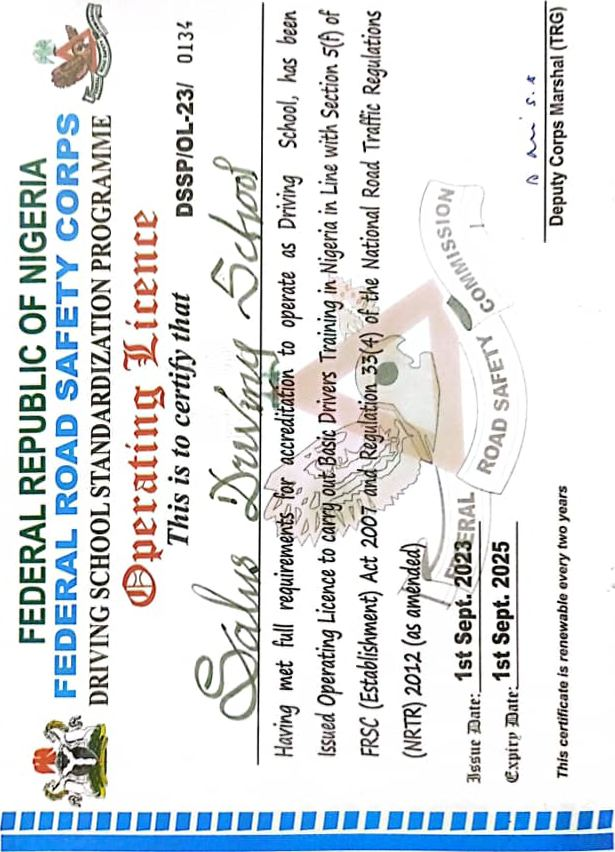
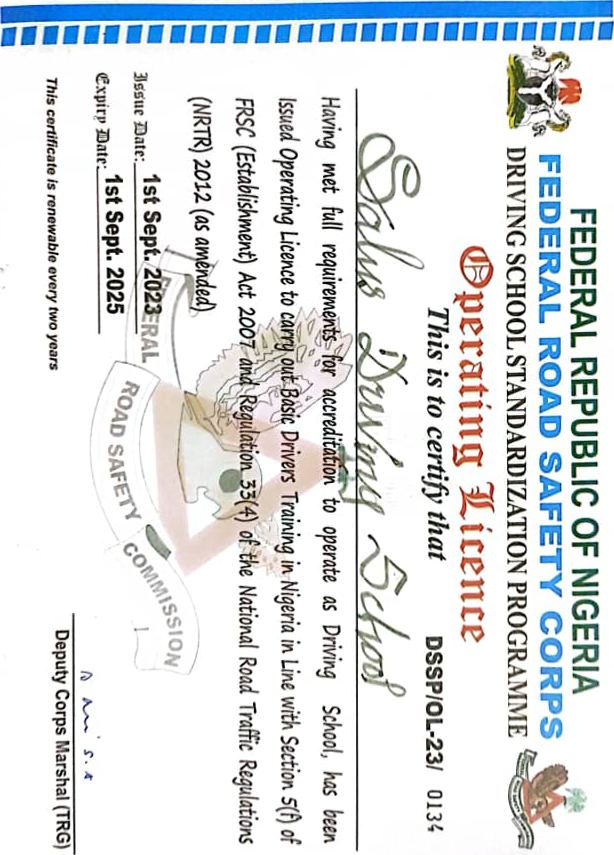
images: refine certificate deskew (ensure heading at top), reprocess CEO and certificate; optimize outputs

diff --git a/tools/fix_images.py b/tools/fix_images.py
@@ -85,11 +85,22 @@ def deskew_certificate(src_path, out_path, quality=78, max_dim=2000):
         if angle < -45:
             angle = 90 + angle
 
-    # rotate by negative angle to deskew
+    # rotate by negative angle to deskew (use -angle)
     (h, w) = img.shape[:2]
     center = (w // 2, h // 2)
-    M = cv2.getRotationMatrix2D(center, angle, 1.0)
+    M = cv2.getRotationMatrix2D(center, -angle, 1.0)
     rotated = cv2.warpAffine(img, M, (w, h), flags=cv2.INTER_CUBIC, borderMode=cv2.BORDER_REPLICATE)
+
+    # ensure heading is at the top: compare dark pixel density top vs bottom
+    gray_rot = cv2.cvtColor(rotated, cv2.COLOR_BGR2GRAY)
+    h2 = gray_rot.shape[0]
+    top_strip = gray_rot[0:max(1, h2//8), :]
+    bottom_strip = gray_rot[-max(1, h2//8):, :]
+    top_dark = np.sum(top_strip < 200)
+    bottom_dark = np.sum(bottom_strip < 200)
+    # if bottom has more dark pixels (likely heading is at bottom), rotate 180 degrees
+    if bottom_dark > top_dark * 1.1:
+        rotated = cv2.rotate(rotated, cv2.ROTATE_180)
 
     # optional crop to content
     gray2 = cv2.cvtColor(rotated, cv2.COLOR_BGR2GRAY)
